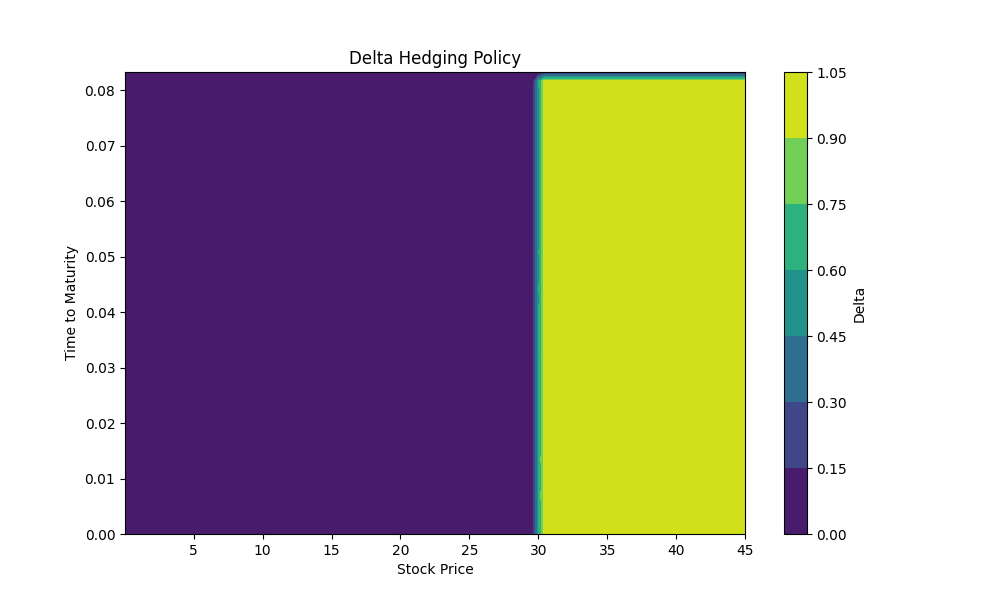
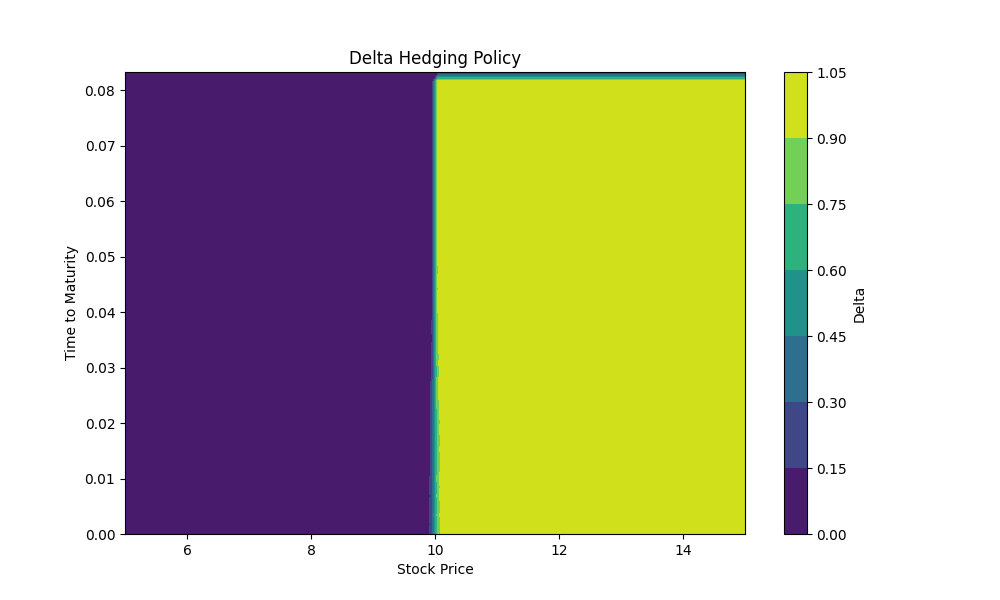
eod

diff --git a/agents/actor_delta_hedge.py b/agents/actor_delta_hedge.py
@@ -27,10 +27,10 @@ class DeltaHedgeActor:
         time_t,  # time
         choose,  # 'best' | 'random'
         seed=None,
-    ):
+    ) -> (T.Tensor, T.Tensor):
         """Select action using Black-Scholes delta."""
         stock_price = S_t
-        time_to_maturity = self.env.T - time_t * self.env.dt
+        time_to_maturity = self.env.T - time_t
         volatility = v_t
         strike = self.env.K
         risk_free_rate = self.env.r
@@ -91,8 +91,7 @@ class DeltaHedgeActor:
             timestep[:, t_idx] = t_idx
 
             # get actions from the policy (inner)
-            # u_t[:, :, t_idx], log_prob_t[:, :, t_idx] \
-            test_u, test_t = self.select_actions(
+            u_t[:, :, t_idx], log_prob_t[:, :, t_idx] = self.select_actions(
                 S[:, t_idx].unsqueeze(-1).repeat(1, Mtransitions),
                 v[:, t_idx].unsqueeze(-1).repeat(1, Mtransitions),
                 alpha[:, t_idx].unsqueeze(-1).repeat(1, Mtransitions),
@@ -139,6 +138,148 @@ class DeltaHedgeActor:
         }  # log-prob from the actions
 
         return trajs, transitions
+
+    def plot_current_policy(self):
+        """Plot the current delta hedging policy."""
+        plt.figure(figsize=(10, 6))
+        S = np.linspace(0.5 * self.env.S0, 1.5 * self.env.S0, 100)
+        t = np.linspace(0, self.env.T, 50)
+        S_grid, t_grid = np.meshgrid(S, t)
+
+        deltas = np.zeros_like(S_grid)
+        for i in range(len(t)):
+            for j in range(len(S)):
+                state = [S_grid[i, j], 0, t_grid[i, j]]  # Assuming zero hedge position
+                deltas[i, j] = self.select_actions(state).item()
+
+        plt.contourf(S_grid, t_grid, deltas)
+        plt.colorbar(label="Delta")
+        plt.xlabel("Stock Price")
+        plt.ylabel("Time")
+        plt.title("Delta Hedging Policy")
+        plt.savefig(os.path.join(self.repo, self.method, "delta_policy.png"))
+        plt.close()
+
+    def plot_current_policy2(self):
+        """Plot the current delta hedging policy as a function of stock price and time."""
+        plt.figure(figsize=(10, 6))
+
+        # Define grid over stock price and time
+        S_vals = np.linspace(0.5 * self.env.S0, 1.5 * self.env.S0, 100)
+        t_vals = np.linspace(0, self.env.T, 50)
+        S_grid, t_grid = np.meshgrid(S_vals, t_vals)
+
+        # Assume constant volatility and hedge position for the plot
+        v_fixed = self.env.sigma
+        alpha_fixed = 0
+        B_fixed = self.env.B0
+
+        # Compute delta values
+        deltas = np.zeros_like(S_grid)
+        for i in range(t_grid.shape[0] - 1):
+            for j in range(S_grid.shape[1]):
+                S_t = S_grid[i, j]
+                time_t = t_grid[i, j]  # convert to time index
+                delta, _ = self.select_actions(
+                    S_t,
+                    v_fixed,
+                    alpha_fixed,
+                    B_fixed,
+                    time_t,
+                    choose="random",
+                )
+                deltas[i, j] = delta.item()
+
+        # Plot the delta surface
+        contour = plt.contourf(S_grid, t_grid, deltas, cmap="viridis")
+        plt.colorbar(contour, label="Delta")
+        plt.xlabel("Stock Price")
+        plt.ylabel("Time to Maturity")
+        plt.title("Delta Hedging Policy")
+
+        # Save the plot
+        save_path = os.path.join(self.repo, self.method, "delta_policy.png")
+        os.makedirs(os.path.dirname(save_path), exist_ok=True)
+        plt.savefig(save_path)
+        plt.close()
+
+    def plot_delta_vs_stock_price(self):
+        """Plot the delta hedging policy as a function of stock price."""
+        plt.figure(figsize=(10, 6))
+
+        # Define grid over stock price
+        S_vals = np.linspace(0.5 * self.env.S0, 1.5 * self.env.S0, 100)
+        t_fixed = self.env.T / 2  # Fixed time value (e.g., halfway to maturity)
+
+        # Assume constant volatility and hedge position
+        v_fixed = self.env.sigma
+        alpha_fixed = 0
+        B_fixed = self.env.B0
+
+        # Compute delta values
+        deltas = np.zeros_like(S_vals)
+        for j, S_t in enumerate(S_vals):
+            delta, _ = self.select_actions(
+                S_t,
+                v_fixed,
+                alpha_fixed,
+                B_fixed,
+                t_fixed,
+                choose="random",
+            )
+            deltas[j] = delta.item()
+
+        # Plot the delta curve
+        plt.plot(S_vals, deltas, label=f"Time = {t_fixed:.2f}")
+        plt.xlabel("Stock Price")
+        plt.ylabel("Delta")
+        plt.title("Delta Hedging Policy vs Stock Price")
+        plt.legend()
+
+        # Save the plot
+        save_path = os.path.join(self.repo, self.method, "delta_vs_stock_price.png")
+        os.makedirs(os.path.dirname(save_path), exist_ok=True)
+        plt.savefig(save_path)
+        plt.close()
+
+    def plot_delta_vs_time(self):
+        """Plot the delta hedging policy as a function of time."""
+        plt.figure(figsize=(10, 6))
+
+        # Define grid over time
+        t_vals = np.linspace(0, self.env.T, 50)
+        S_fixed = self.env.S0  # Fixed stock price
+
+        # Assume constant volatility and hedge position
+        v_fixed = self.env.sigma
+        alpha_fixed = 0
+        B_fixed = self.env.B0
+
+        # Compute delta values
+        deltas = np.zeros_like(t_vals)
+        for i, time_t in enumerate(t_vals):
+            delta, _ = self.select_actions(
+                S_fixed,
+                v_fixed,
+                alpha_fixed,
+                B_fixed,
+                time_t,
+                choose="random",
+            )
+            deltas[i] = delta.item()
+
+        # Plot the delta curve
+        plt.plot(t_vals, deltas, label=f"Stock Price = {S_fixed:.2f}")
+        plt.xlabel("Time to Maturity")
+        plt.ylabel("Delta")
+        plt.title("Delta Hedging Policy vs Time")
+        plt.legend()
+
+        # Save the plot
+        save_path = os.path.join(self.repo, self.method, "delta_vs_time.png")
+        os.makedirs(os.path.dirname(save_path), exist_ok=True)
+        plt.savefig(save_path)
+        plt.close()
 
     def reset_variables(self, Ntrajectories, Mtransitions):
         # initialize tables for all trajectories
@@ -236,67 +377,3 @@ class DeltaHedgeActor:
             log_prob_t,
             cost_t,
         )
-
-    def plot_current_policy(self):
-        """Plot the current delta hedging policy."""
-        plt.figure(figsize=(10, 6))
-        S = np.linspace(0.5 * self.env.S0, 1.5 * self.env.S0, 100)
-        t = np.linspace(0, self.env.T, 50)
-        S_grid, t_grid = np.meshgrid(S, t)
-
-        deltas = np.zeros_like(S_grid)
-        for i in range(len(t)):
-            for j in range(len(S)):
-                state = [S_grid[i, j], 0, t_grid[i, j]]  # Assuming zero hedge position
-                deltas[i, j] = self.select_actions(state).item()
-
-        plt.contourf(S_grid, t_grid, deltas)
-        plt.colorbar(label="Delta")
-        plt.xlabel("Stock Price")
-        plt.ylabel("Time")
-        plt.title("Delta Hedging Policy")
-        plt.savefig(os.path.join(self.repo, self.method, "delta_policy.png"))
-        plt.close()
-
-    def plot_current_policy2(self):
-        """Plot the current delta hedging policy as a function of stock price and time."""
-        plt.figure(figsize=(10, 6))
-
-        # Define grid over stock price and time
-        S_vals = np.linspace(0.5 * self.env.sigma, 1.5 * self.env.S0, 100)
-        t_vals = np.linspace(0, self.env.T, 50)
-        S_grid, t_grid = np.meshgrid(S_vals, t_vals)
-
-        # Assume constant volatility and hedge position for the plot
-        v_fixed = self.env.sigma
-        alpha_fixed = 0.0
-        B_fixed = 0.0
-
-        # Compute delta values
-        deltas = np.zeros_like(S_grid)
-        for i in range(t_grid.shape[0] - 1):
-            for j in range(S_grid.shape[1]):
-                S_t = S_grid[i, j]
-                time_t = t_grid[i, j] / self.env.dt  # convert to time index
-                delta, _ = self.select_actions(
-                    S_t,
-                    v_fixed,
-                    alpha_fixed,
-                    B_fixed,
-                    time_t,
-                    choose="random",
-                )
-                deltas[i, j] = delta.item()
-
-        # Plot the delta surface
-        contour = plt.contourf(S_grid, t_grid, deltas, cmap="viridis")
-        plt.colorbar(contour, label="Delta")
-        plt.xlabel("Stock Price")
-        plt.ylabel("Time to Maturity")
-        plt.title("Delta Hedging Policy")
-
-        # Save the plot
-        save_path = os.path.join(self.repo, self.method, "delta_policy.png")
-        os.makedirs(os.path.dirname(save_path), exist_ok=True)
-        plt.savefig(save_path)
-        plt.close()

diff --git a/agents/testing_dh_actor.py b/agents/testing_dh_actor.py
@@ -1,4 +1,3 @@
-# %%
 from agents.actor_delta_hedge import DeltaHedgeActor
 from envs import BlackScholesEnv
 import torch as T
@@ -15,7 +14,6 @@ import argparse
 import yaml
 
 
-# %%
 def setup_experiment(hyperparameters_version, is_training=False, preload=False):
     import yaml
     import os
@@ -80,7 +78,6 @@ def setup_experiment(hyperparameters_version, is_training=False, preload=False):
     }
 
 
-# %%
 config = setup_experiment(
     hyperparameters_version="d002.000.001", is_training=True, preload=False
 )
@@ -88,7 +85,6 @@ config = setup_experiment(
 # Now you can pass `config` to build the env, agent, etc.
 
 
-# %%
 env = BlackScholesEnv(config["envParams"])
 DH_agent = DeltaHedgeActor(
     os.getcwd(),
@@ -99,9 +95,9 @@ DH_agent = DeltaHedgeActor(
 )
 
 
-# %%
 test_trajectories = DH_agent.sim_trajectories(1, 5)
 
-# %%
 
 DH_agent.plot_current_policy2()
+DH_agent.plot_delta_vs_time()
+DH_agent.plot_delta_vs_stock_price()

diff --git a/envs.py b/envs.py
@@ -27,6 +27,7 @@ class BlackScholesEnv:
         self.sigma = params["sigma"]
         self.epsilon = params["epsilon"]
         self.S0 = params["S0"]
+        self.B0 = params["B0"]
         self.spaces = {
             "t_space": np.arange(params["Ndt"]),
             "S_space": np.linspace(
